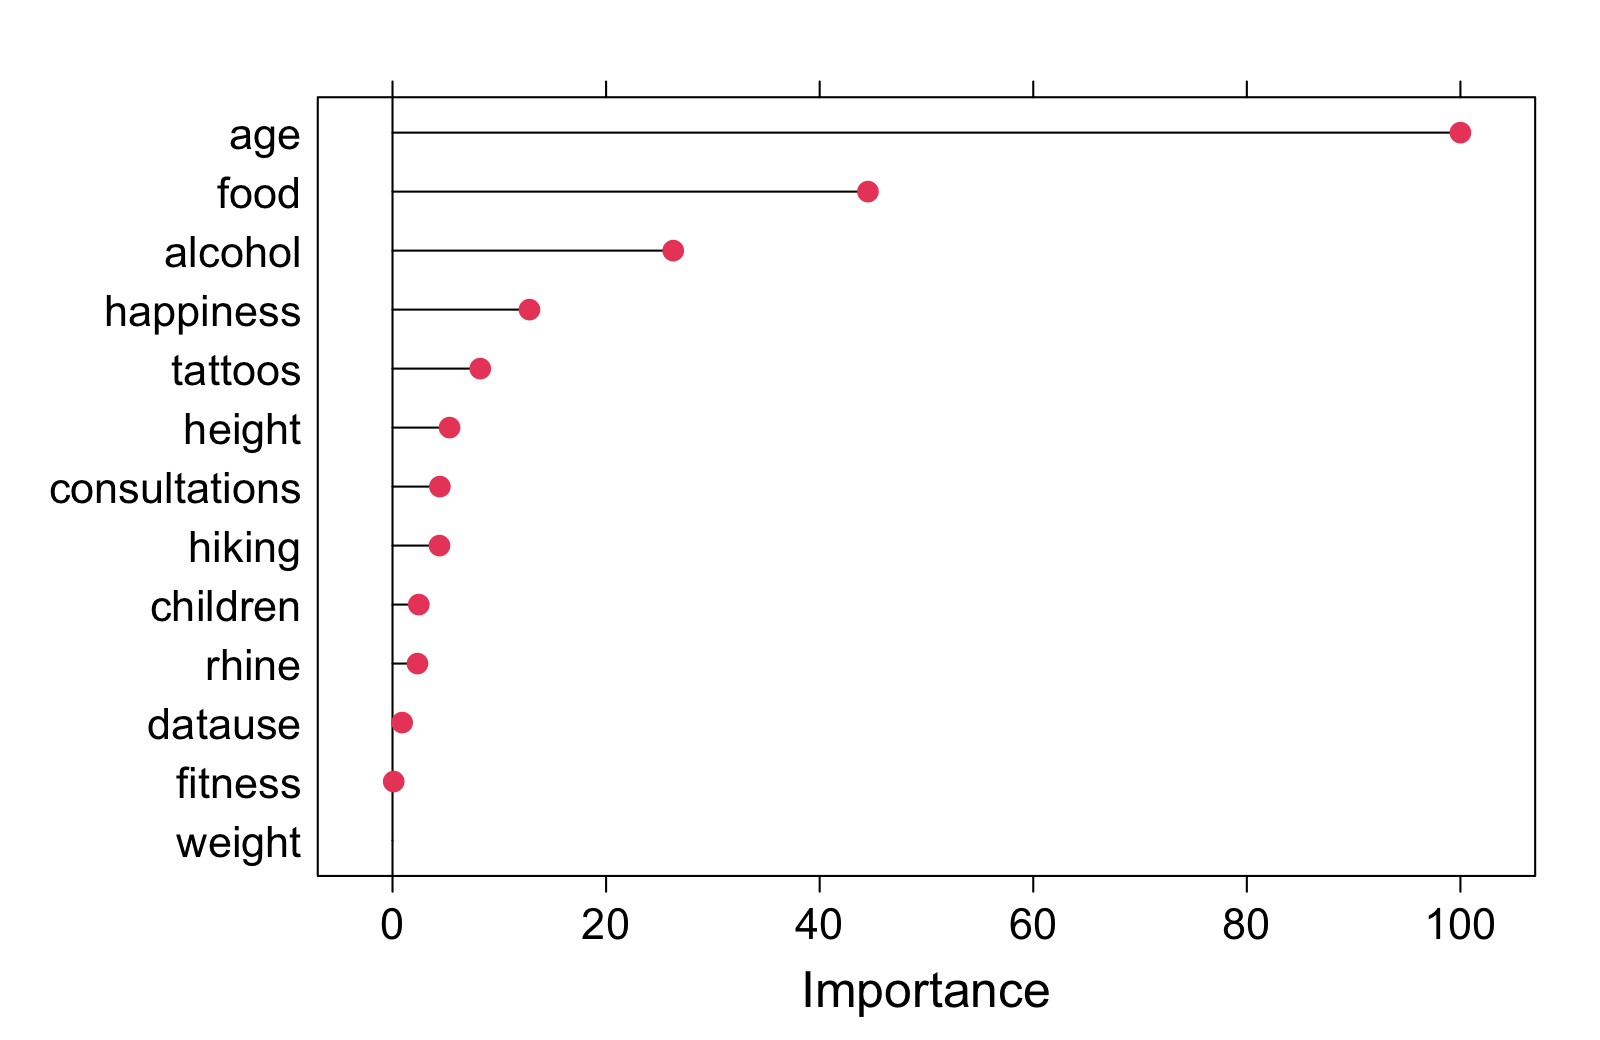
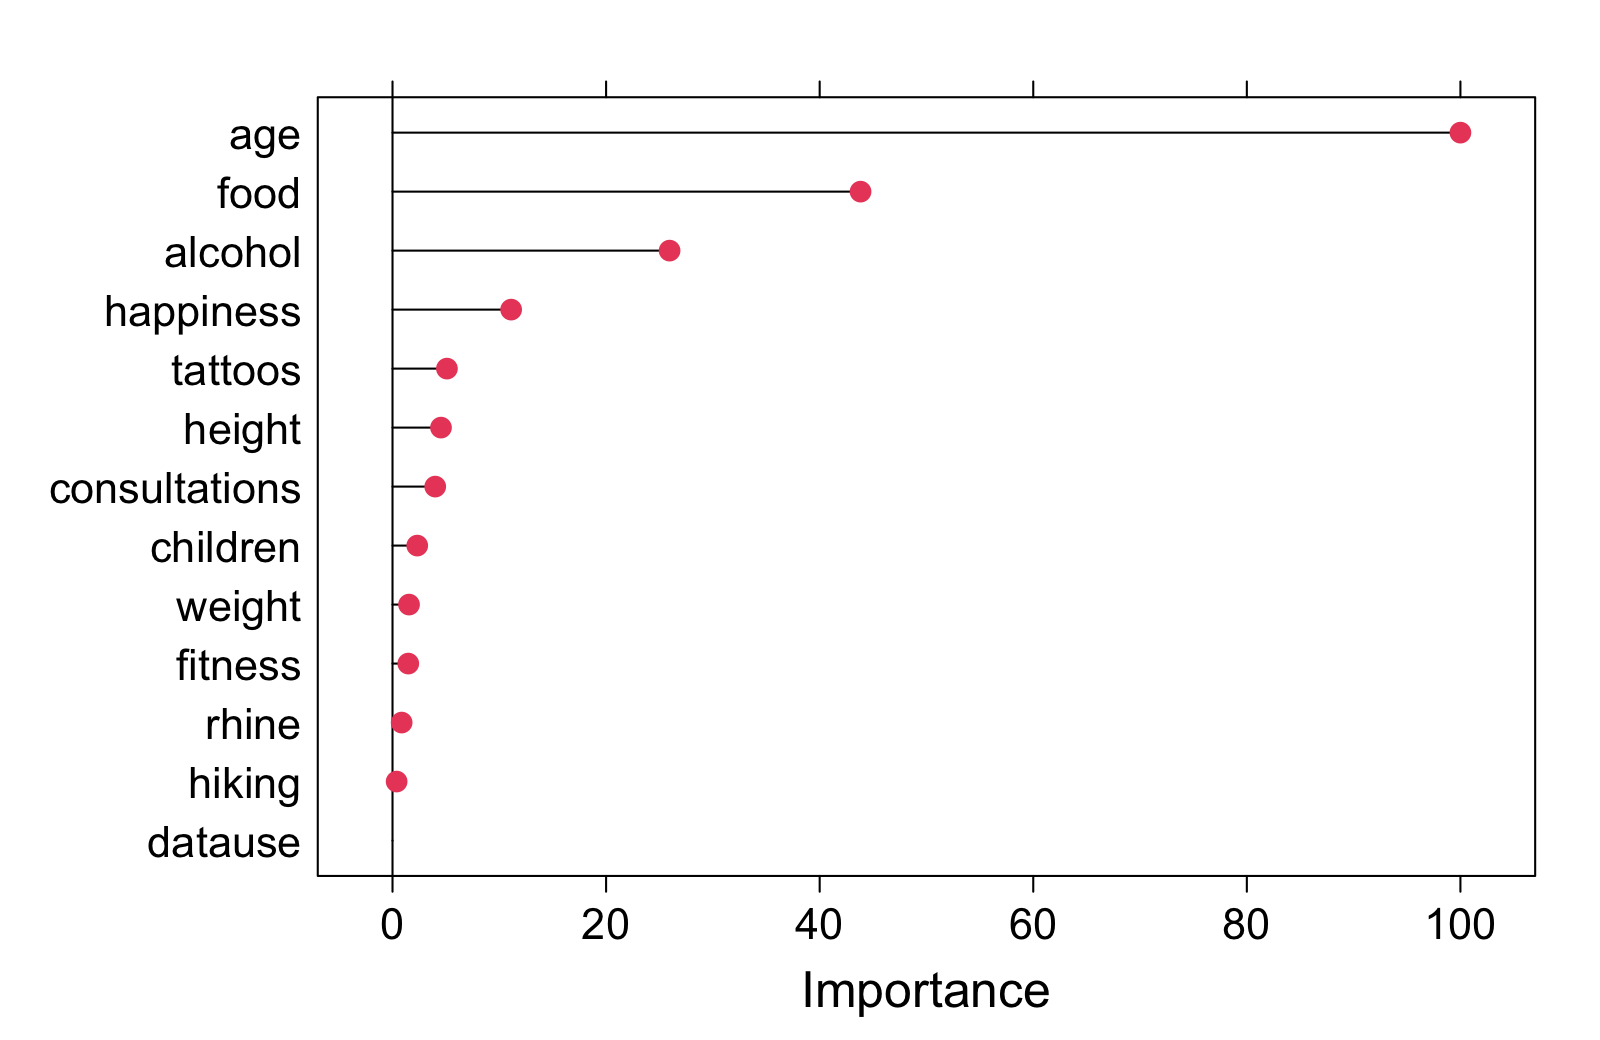
minor

diff --git a/_sessions/Features/Features.html b/_sessions/Features/Features.html
@@ -167,15 +167,15 @@ lm variable importance
 
           Overall
 age        100.00
-food        44.11
-alcohol     25.89
-happiness   13.03
-tattoos      8.35
-height       4.73
-children     2.63
-datause      1.08
-weight       0.52
-fitness      0.00
+food        43.96
+alcohol     25.73
+happiness   11.24
+tattoos      5.16
+height       3.94
+children     2.39
+weight       2.25
+fitness      1.62
+datause      0.00
 ```
 
 ]
@@ -226,14 +226,14 @@ Outer resampling method: Bootstrapped (25 reps)
 Resampling performance over subset size:
 
  Variables  RMSE Rsquared   MAE RMSESD RsquaredSD  MAESD Selected
-         3 0.383    0.857 0.301 0.0157     0.0134 0.0129         
-         4 0.380    0.859 0.298 0.0155     0.0117 0.0130         
-         5 0.378    0.860 0.296 0.0153     0.0117 0.0126        *
-        10 0.380    0.859 0.298 0.0154     0.0114 0.0122         
-        14 0.380    0.859 0.298 0.0152     0.0112 0.0122         
+         3 0.373    0.862 0.293 0.0166     0.0167 0.0132         
+         4 0.371    0.863 0.291 0.0174     0.0167 0.0138        *
+         5 0.373    0.862 0.292 0.0170     0.0158 0.0133         
+        10 0.375    0.860 0.294 0.0158     0.0148 0.0124         
+        14 0.376    0.860 0.294 0.0156     0.0146 0.0125         
 
-The top 5 variables (out of 5):
-   age, food, alcohol, happiness, tattoos
+The top 4 variables (out of 4):
+   age, food, alcohol, happiness
 ```
 
 ]
@@ -389,7 +389,7 @@ Some problems are hard, requiring the engineering of new features.
 
 &lt;u&gt;&lt;a href="https://www.gwern.net/Tanks"&gt;An urban myth?!&lt;/a&gt;&lt;/u&gt;
 
-"The Army trained a program to differentiate American tanks from Russian tanks with 100% accuracy. Only later did analysts realized that the American tanks had been photographed on a sunny day and the Russian tanks had been photographed on a cloudy day. The computer had learned to detect brightness."&lt;br&gt;&lt;br&gt;
+"The Army trained a program to differentiate American tanks from Russian tanks with 100% accuracy. Only later did analysts realize that the American tanks had been photographed on a sunny day and the Russian tanks had been photographed on a cloudy day. The computer had learned to detect brightness."&lt;br&gt;&lt;br&gt;
 New York Times &lt;a href="https://www.nytimes.com/2017/10/09/science/stanford-sexual-orientation-study.html" style="font-size:8px"&gt;[Full text]&lt;/a&gt;
 
 ]
